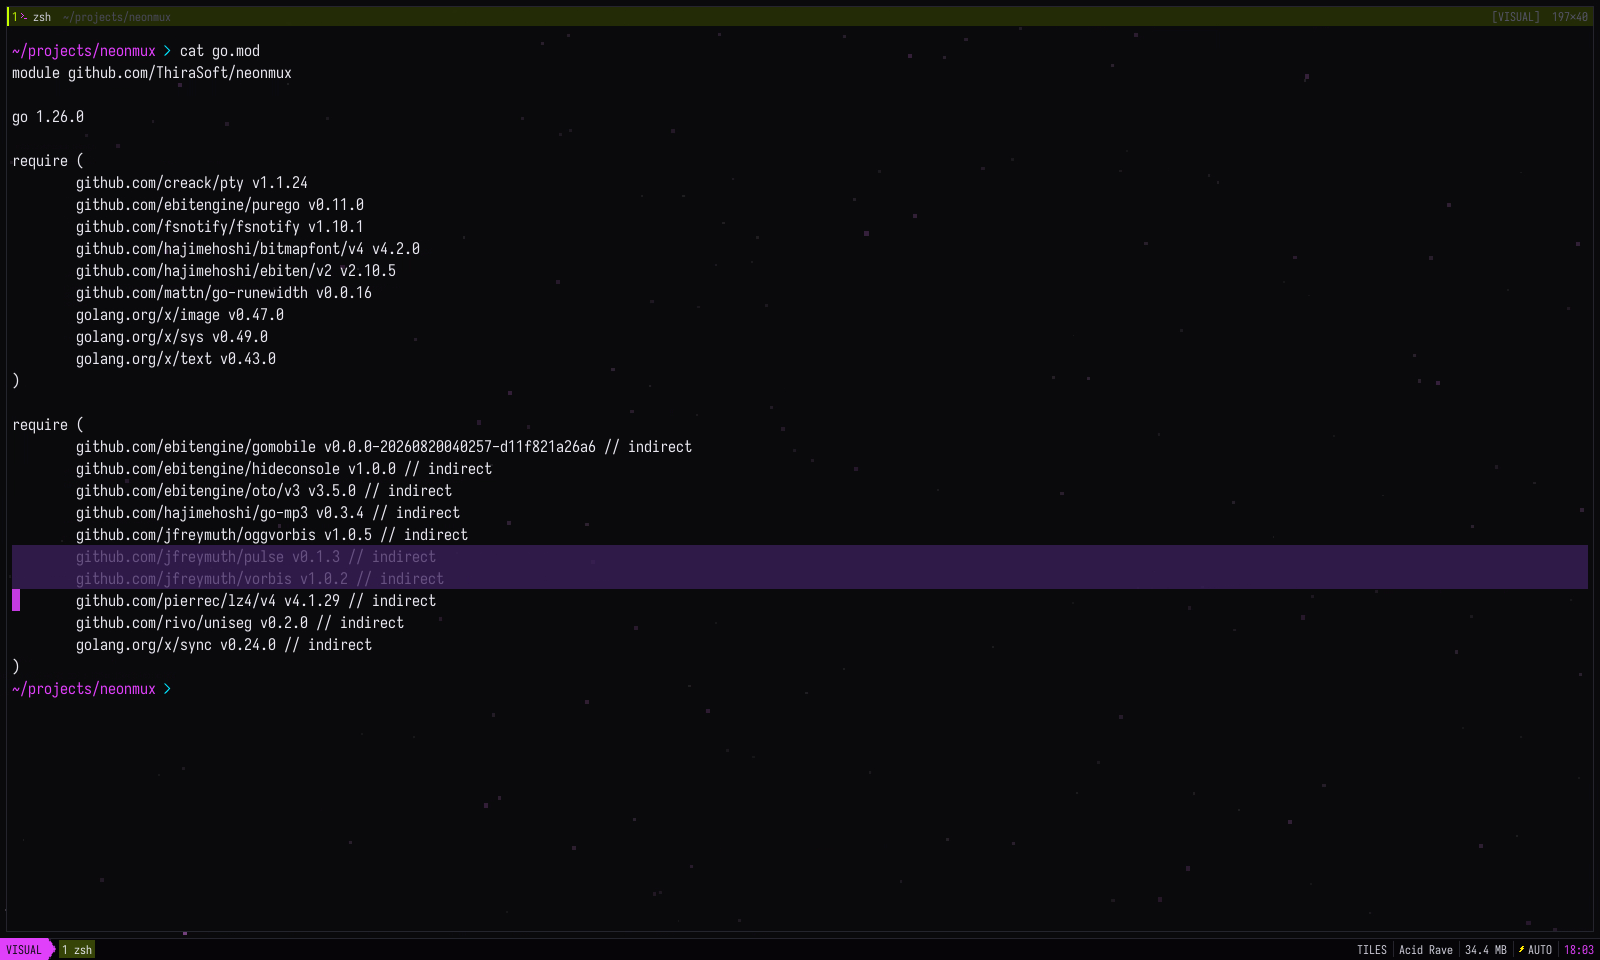
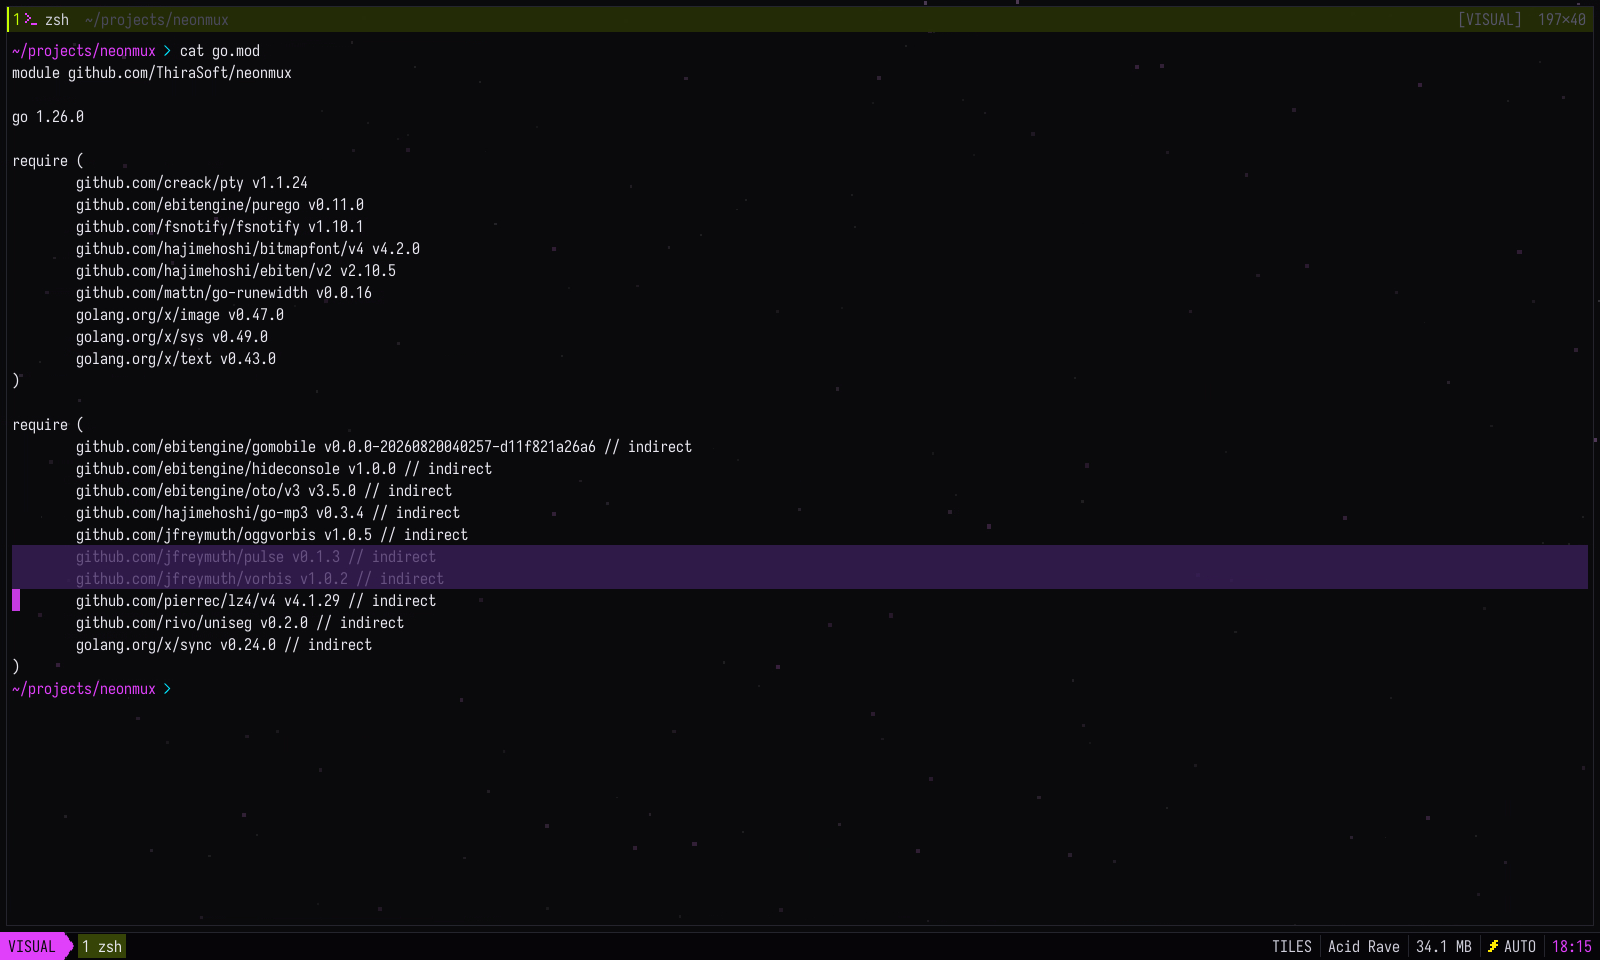
interface font at 16 by default, GIFs redone, backgrounds GIF follows each theme
Claude-Session: https://claude.ai/code/session_01R2d6fhXdMhdiecUKFfbq6M

Changed region(s): [[0.0, 0.0, 1.0, 0.0312], [0.7812, 0.9688, 1.0, 1.0], [0.0, 0.9688, 0.125, 1.0]]

diff --git a/internal/ui/config.go b/internal/ui/config.go
@@ -67,7 +67,7 @@ func DefaultConfig() Config {
 		Font:         "iosevka",
 		FontSize:     16,
 		UIFont:       "iosevka",
-		UIFontSize:   12,
+		UIFontSize:   16,
 		SymbolsFont:  "auto",
 		Leader:       "ctrl+space",
 		Mod:          mod,

diff --git a/README.md b/README.md
@@ -220,7 +220,7 @@ The config is **reloaded as soon as it is saved**, for example after `mod+,` ope
   "font": "iosevka",
   "font_size": 16,
   "ui_font": "iosevka",
-  "ui_font_size": 12,
+  "ui_font_size": 16,
   "symbols_font": "auto",
   "shell": "",
   "leader": "ctrl+space",
@@ -255,7 +255,7 @@ The config is **reloaded as soon as it is saved**, for example after `mod+,` ope
 - `font`: the terminal font. `iosevka` (the default) is Iosevka Term, built in. `pixel` is the built-in 6×13 bitmap font, scaled up by whole factors. `gomono` is Go Mono, built in. Anything else is the path of a `.ttf`, `.otf` or `.ttc` file. Characters missing from the font are drawn with the pixel font. A font that cannot be loaded falls back to the pixel font with a toast, and that fallback is never saved. The `mod+o` picker lists the built-in fonts and the monospace fonts installed on the machine.
 - `font_size`: size of the terminal font, in points (default 16). `mod+=`, `mod+-` and `mod+0` change it.
 - `ui_font`: the interface font (pane headers, bottom bar, palette, toasts, file explorer and audio player). It takes the same values as `font`, `iosevka` by default. The help, the diff and the agent board use the terminal font.
-- `ui_font_size`: size of the interface font, in points (default 12).
+- `ui_font_size`: size of the interface font, in points (default 16).
 - `symbols_font`: fallback font for Nerd Font icons (the Unicode private use area). With `auto`, an installed Nerd Font Mono is detected. `none` turns it off, and any other value is the path of a font.
 - `shell`: the shell of new terminals. Empty, neonmux uses `$SHELL`, otherwise your login shell.
 - `editor`: the command that opens files (explorer, `neonmux open`, diff, `mod+,`, `-demo`). Empty, neonmux uses `$EDITOR`, otherwise nvim, otherwise vi.
